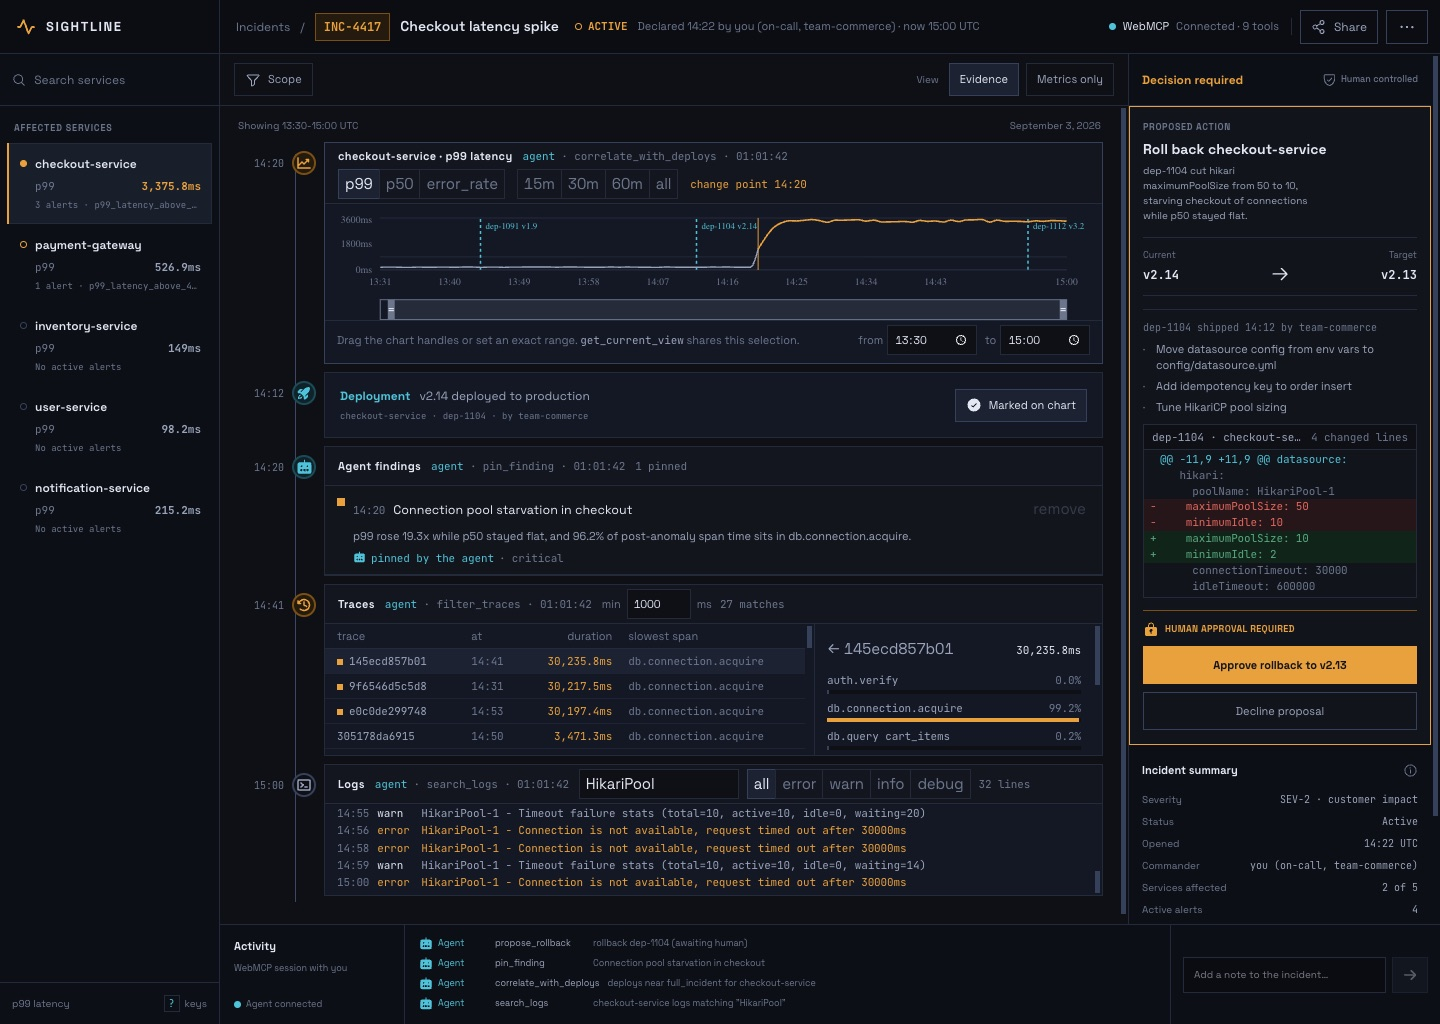
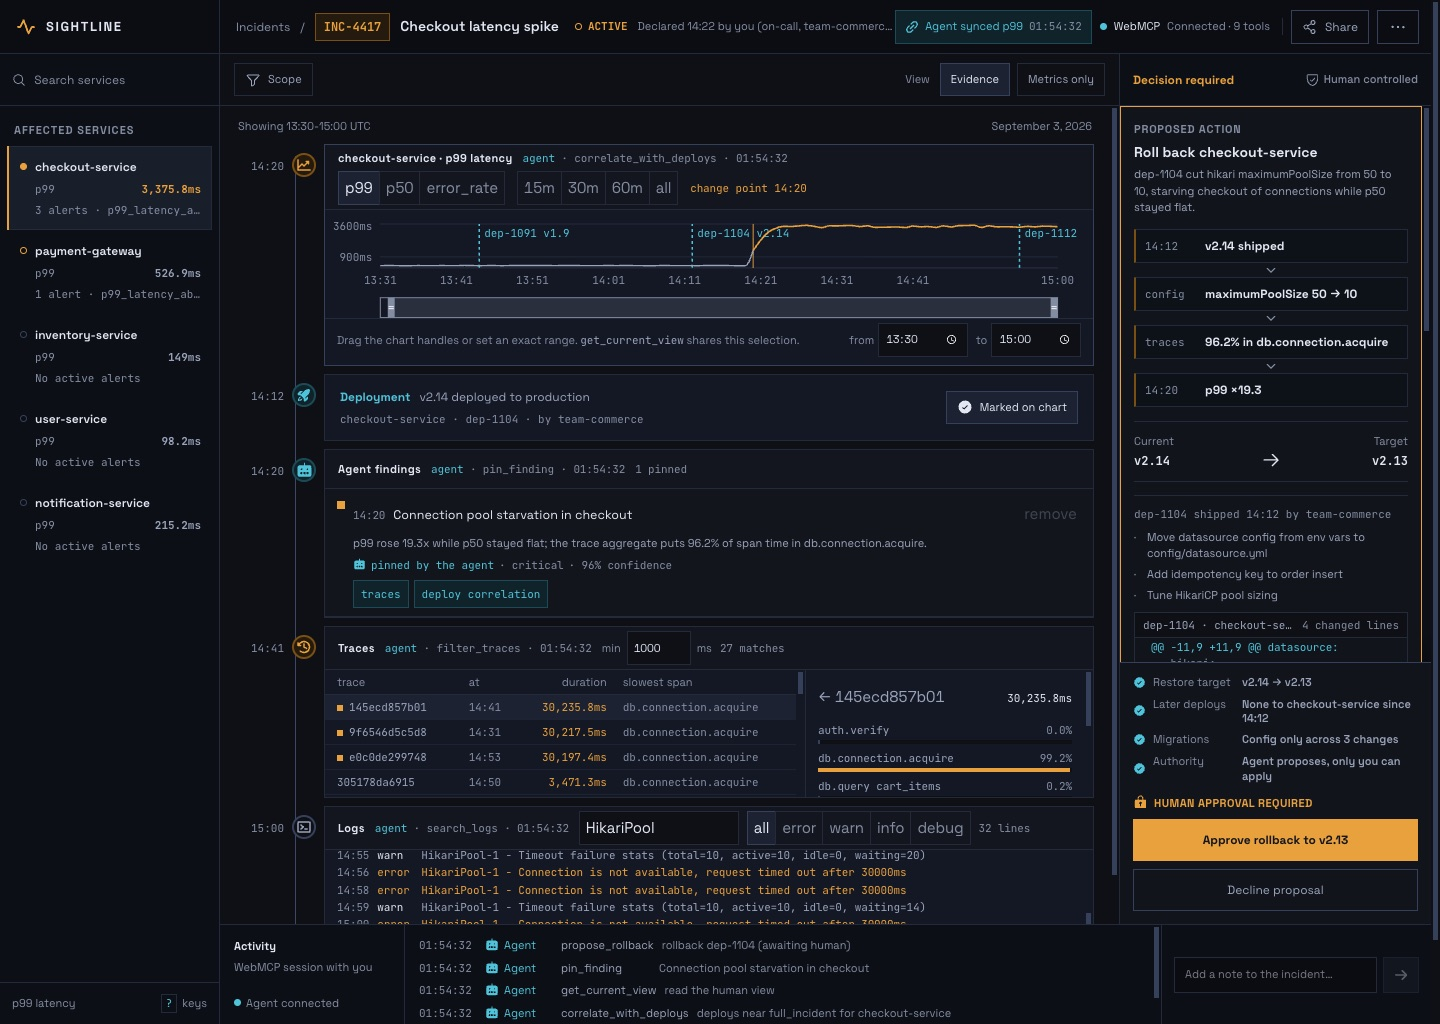
Document the handoff, the impact comparison and the accessibility floor

diff --git a/README.md b/README.md
@@ -14,7 +14,9 @@ registers nine tools; when the agent calls one, the console visibly changes, and
 the agent can read back what the *human* is looking at and continue from there.
 
 Prompt it with one sentence — **"Checkout p99 is spiking. Find out why."** — and
-it should reach the deploy on its own.
+it should reach the deploy on its own. The findings pane carries a **Copy
+investigation prompt** button and a **Reset demo** action, so you can run the
+whole thing without reading any of this first.
 
 ---
 
@@ -107,6 +109,17 @@ only caller is the `onClick` of the Approve button in
 [`RollbackCard.tsx`](src/components/RollbackCard.tsx). No tool reaches it.
 Requested windows are bounded by the current simulated time, so recovery data
 is unavailable until that approval advances the incident clock.
+
+The gate is pinned to the foot of the decision rail so evidence never pushes it
+off screen, and the pre-flight checks above it — restore target, later deploys,
+migrations in the diff — are computed in `rollbackChecks` from the deploy
+fixture. An approval gate that displays reassuring constants is worse than one
+that displays nothing: it teaches the operator to trust a check that never ran.
+
+**The rollback argument is a chain, not a paragraph.** `v2.14 shipped` →
+`maximumPoolSize 50 → 10` → `96.2% in db.connection.acquire` → `p99 x19.3`,
+where every value is computed and every step scrolls to the chart, trace or
+diff it came from.
 
 **Errors teach the caller how to retry.** Not `"No results"` but
 `"No traces for checkout-service at or above 3000ms in 13:30-14:00. The slowest
@@ -228,7 +241,7 @@ irreversible action in the application, and it stays a click on a button that
 only exists while a proposal is open — a stray keystroke should never be able to
 ship a production change.
 
-## Interface and accessibility
+## The handoff, made visible
 
 Every pane carries a provenance stamp in its header naming who last changed it
 and how — `agent · filter_traces · 14:47:20`, or `you · window 14:00-14:30`.
@@ -236,10 +249,44 @@ When a tool mutates a pane, that pane gets one sharp flash in the colour of
 whoever caused it. That is the only motion in the application, and it respects
 `prefers-reduced-motion`.
 
-The workspace reflows below desktop width instead of clipping. Chart windows
-can be changed with keyboard-accessible time inputs as well as drag handles,
-tool activity and approval requests use live regions, controls receive visible
-focus, and the muted palette meets normal-text contrast targets.
+The header carries the other half: when the agent calls `get_current_view`, the
+**Agent synced** badge names the metric it read and the second it read it. That
+is the moment the two operators are provably looking at the same screen.
+
+Findings pinned by the agent carry a confidence value and `source_refs`, and
+each ref renders as a button that scrolls to the pane the evidence came from —
+so a reviewer can reproduce a claim instead of taking its word for it. The
+activity trail, provenance stamps, findings and rollback state all survive a
+refresh, with wall-clock stamps kept distinct from incident time.
+
+## Manual versus agent-assisted
+
+The decision rail scores the same incident both ways. The agent column is
+measured live from the activity trail — elapsed time to the first critical
+finding, elapsed time to mitigation, tool calls made, and the breadth each
+sweep collapsed (`get_service_health` rules out four services in one call).
+The manual column is an estimate recorded in `MANUAL_BASELINE`, and the panel
+says so: those are different kinds of number and the interface should not print
+them as if both were observed.
+
+## Accessibility
+
+No operational text renders below 11px, and `--color-ink-faint` clears 4.5:1 on
+every surface it is used on. Chart windows can be changed with keyboard-
+accessible time inputs as well as drag handles, tool activity and approval
+requests use live regions, focus is a ring plus a halo so it survives a dark
+ground, and the tab order runs brand → header → services → evidence → decision.
+Verified with no clipped controls and no horizontal overflow at 1440, 1280,
+1180, 1024, 720 (200% zoom) and 390.
+
+Below 1120px the decision rail becomes a drawer behind a persistent **Decision
+required** trigger, so a proposal is one tap away rather than below a long
+investigation timeline. Parked off screen it is `visibility: hidden`, which
+keeps it out of the tab order.
+
+When no WebMCP host is present the activity band explains which surfaces were
+probed, whether the document is origin-keyed, how to enable WebMCP, and offers
+a retry — and the console stays fully usable by hand.
 
 ![Sightline tablet layout](docs/sightline-tablet.jpg)
 
